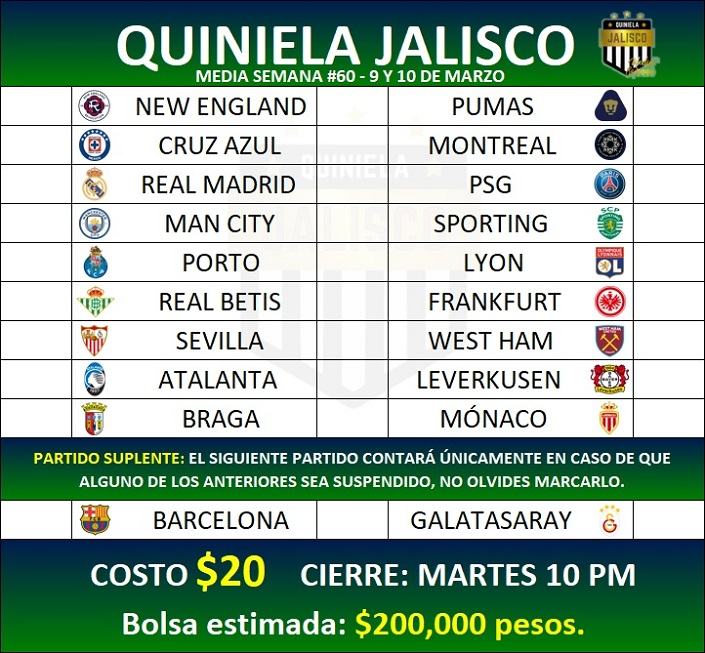
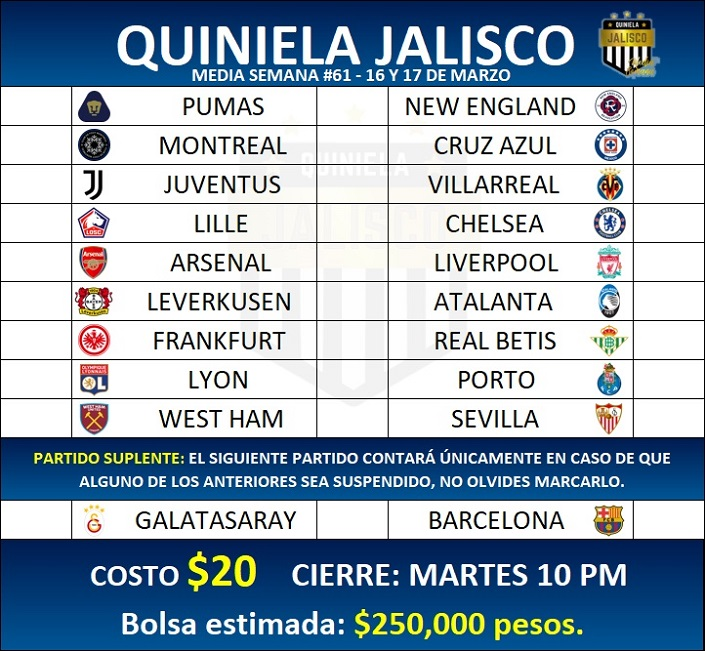
Media Semana #61

diff --git a/MediaSemana/stylesmSusp.css b/MediaSemana/stylesmSusp.css
@@ -92,8 +92,8 @@ h1{
     margin-top: 8%;
     border: solid 1px black;
     border-radius: 0 0 14px 14px;
-    background: -webkit-linear-gradient(0turn, rgb(8,26,81)  ,rgb(0,84,33) 80%);
-    background: linear-gradient(0turn, rgb(8,26,81)  ,rgb(0,84,33) 80%);
+    background: -webkit-linear-gradient(0turn, rgb(8,26,81)  ,rgb(0,60,120) 80%);
+    background: linear-gradient(0turn, rgb(8,26,81)  ,rgb(0,60,120) 80%);
     font-size: x-large;
     text-shadow: 1px 1px 5px black;
 }

diff --git a/media.html b/media.html
@@ -18,7 +18,7 @@
 </head>
 
 <body>
-    <p id='bolsa'>¡Se reparte todo el acumulado!<br> Bolsa estimada: <span style="color:yellow">$200,000</span> pesos</p>
+    <p id='bolsa'><br> Bolsa estimada: <span style="color:yellow">$250,000</span> pesos</p>
     <div class="quiniela" id="quiniela">
         <div class="aux"><h3 style="padding: 5px 7px" onclick="clean()"><ion-icon name="close-outline"></ion-icon></h3></div>
         <div class="partido">
